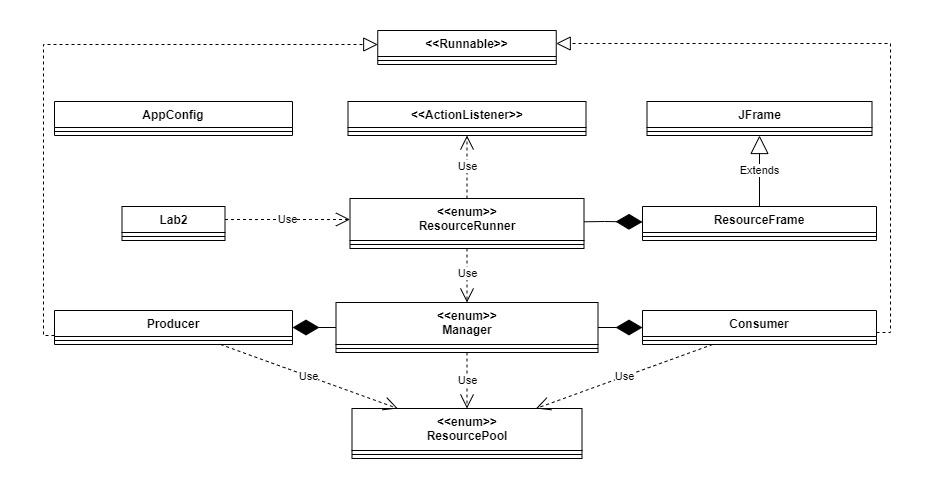
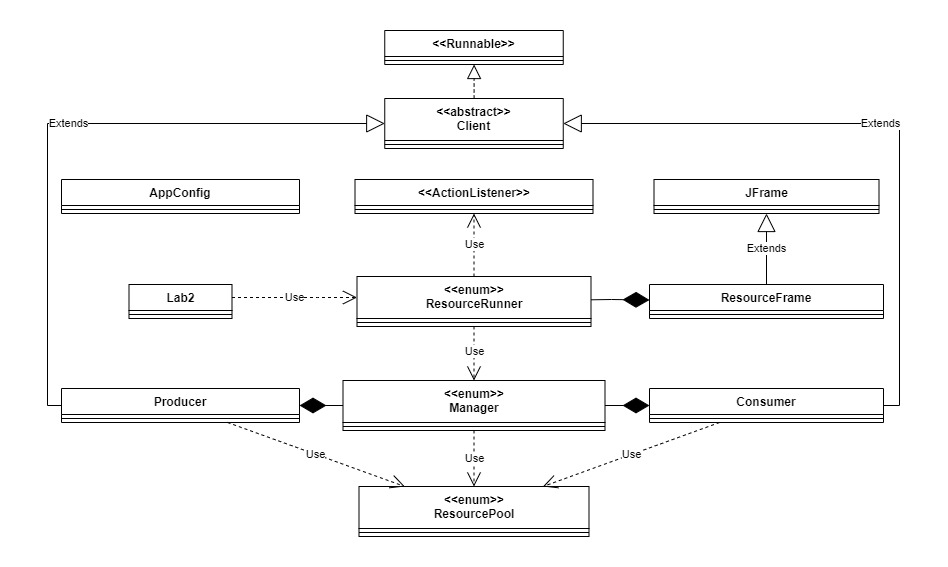
doc lab2 done

diff --git a/Laboration_2/src/main/java/com/dt181g/laboration_2/Client.java b/Laboration_2/src/main/java/com/dt181g/laboration_2/Client.java
@@ -1,0 +1,64 @@
+package com.dt181g.laboration_2;
+
+import java.util.Random;
+
+/**
+ * Represents a consumer or producer in the resource pool system.
+ * This abstract class implements the {@link Runnable} interface and is responsible
+ * for the concrete clients consuming or producing of resources from the shared {@link ResourcePool}.
+ * <p>
+ * The class generates a random amount of resources within a specified range based on the maxAdd variable,
+ * and either adds or subtracts it from the pool based on the operation variable,
+ * both of these are provided by the concrete client.
+ * Then it periodically sleeps for a random duration between modification cycles.
+ * </p>
+ * <p>
+ * Upon interruption, the thread will sleep until it is interrupted again, ensuring
+ * that it does not consume CPU resources unnecessarily when inactive.
+ * </p>
+ *
+ * @author Joel Lansgren
+ */
+abstract class Client implements Runnable {
+    private final int maxAdd;
+    private final int operation;
+
+    Client(final int maxAdd, final int operation) {
+        this.maxAdd = maxAdd;
+        this.operation = operation;
+    }
+
+    /**
+     * The main execution method for the clients.
+     * <p>
+     * This method continuously consumes or produces resources from the {@link ResourcePool}
+     * based on the operation provided from the client, and sleeps for a random duration
+     * between each modification cycle. If interrupted (by the {@code Manager}), it will wait
+     * until it is interrupted again before resuming modification.
+     * </p>
+     */
+    @Override
+    public void run() {
+        final Random randomizer = new Random();
+        int resource;
+
+        while (true) {
+            resource = randomizer.nextInt(maxAdd) + AppConfig.CLIENT_MIN_ADD;
+            ResourcePool.INSTANCE.modifyResources(operation * resource);
+
+            try {
+                Thread.sleep(randomizer.nextLong(AppConfig.CLIENTS_MAX_SLEEP) + AppConfig.CLIENTS_MIN_SLEEP);
+            } catch (final InterruptedException e) {
+                // Enters here when interrupt() is called and the thread is
+                // switched from the active list and added to the wait list
+                try {  // Put the thread to sleep for a very long time
+                    Thread.sleep(Long.MAX_VALUE);
+                } catch (final InterruptedException e1) {
+                    // Here we end up when interrupt() is called on this thread the next time,
+                    // which is when it is switched from the waiting list to the active list.
+                    // And after this it continues with its main execution in the while loop
+                }
+            }
+        }
+    }
+}

diff --git a/Laboration_2/src/main/java/com/dt181g/laboration_2/Producer.java b/Laboration_2/src/main/java/com/dt181g/laboration_2/Producer.java
@@ -1,53 +1,22 @@
 package com.dt181g.laboration_2;
 
-import java.util.Random;
-
 /**
  * Represents a producer in the resource pool system.
- * This class implements the {@link Runnable} interface and is responsible
+ * This class extends the {@link Client} abstract class and is responsible
  * for producing resources and adding them to the shared {@link ResourcePool}.
  * <p>
  * The producer generates a random amount of resources within a specified range,
  * and periodically sleeps for a random duration between resource productions.
  * </p>
  * <p>
- * Upon interruption, the producer will wait until it is interrupted again, ensuring
+ * Upon interruption, the producer will sleep until it is interrupted again, ensuring
  * that it does not consume CPU resources unnecessarily when inactive.
  * </p>
  *
  * @author Joel Lansgren
  */
-class Producer implements Runnable {
-    /**
-     * The main execution method for the producer.
-     * <p>
-     * This method continuously generates resources and adds them to the {@link ResourcePool}.
-     * It sleeps for a random duration between each production cycle. If interrupted (by the {@code Manager}),
-     * it will wait until it is interrupted again before resuming production.
-     * </p>
-     */
-    @Override
-    public void run() {
-        final Random randomizer = new Random();
-        int resource;
-
-        while (true) {
-            resource = randomizer.nextInt(AppConfig.CONSUMER_MAX_ADD) + AppConfig.CLIENT_MIN_ADD;
-            ResourcePool.INSTANCE.modifyResources(resource);
-
-            try {
-                Thread.sleep(randomizer.nextLong(AppConfig.CLIENTS_MAX_SLEEP) + AppConfig.CLIENTS_MIN_SLEEP);
-            } catch (final InterruptedException e) {
-                // Enters here when interrupt() is called and the thread is
-                // switched from the active list and added to the wait list
-                try {  // Put the thread to sleep for a very long time
-                    Thread.sleep(Long.MAX_VALUE);
-                } catch (final InterruptedException e1) {
-                    // Here we end ut when interrupt() is called on this thread the next time
-                    // which is when it is switched from the waiting list to the active list.
-                    // And after this it continues with its main execution in the while loop
-                }
-            }
-        }
+class Producer extends Client{
+    Producer() {
+        super(AppConfig.PRODUCER_MAX_ADD, AppConfig.PRODUCER_OPERATION);
     }
 }

diff --git a/Laboration_2/src/main/java/com/dt181g/laboration_2/Consumer.java b/Laboration_2/src/main/java/com/dt181g/laboration_2/Consumer.java
@@ -1,53 +1,22 @@
 package com.dt181g.laboration_2;
 
-import java.util.Random;
-
 /**
  * Represents a consumer in the resource pool system.
- * This class implements the {@link Runnable} interface and is responsible
+ * This class extends the {@link Client} abstract class and is responsible
  * for consuming resources from the shared {@link ResourcePool}.
  * <p>
  * The consumer generates a random amount of resources within a specified range,
  * and periodically sleeps for a random duration between consumption cycles.
  * </p>
  * <p>
- * Upon interruption, the consumer will wait until it is interrupted again, ensuring
+ * Upon interruption, the consumer will sleep until it is interrupted again, ensuring
  * that it does not consume CPU resources unnecessarily when inactive.
  * </p>
  *
  * @author Joel Lansgren
  */
-class Consumer implements Runnable {
-    /**
-     * The main execution method for the consumer.
-     * <p>
-     * This method continuously consumes resources from the {@link ResourcePool} and
-     * sleeps for a random duration between each consumption cycle. If interrupted (by the {@code Manager}),
-     * it will wait until it is interrupted again before resuming consumption.
-     * </p>
-     */
-    @Override
-    public void run() {
-        final Random randomizer = new Random();
-        int resource;
-
-        while (true) {
-            resource = randomizer.nextInt(AppConfig.CONSUMER_MAX_ADD) + AppConfig.CLIENT_MIN_ADD;
-            ResourcePool.INSTANCE.modifyResources(-resource);
-
-            try {
-                Thread.sleep(randomizer.nextLong(AppConfig.CLIENTS_MAX_SLEEP) + AppConfig.CLIENTS_MIN_SLEEP);
-            } catch (final InterruptedException e) {
-                // Enters here when interrupt() is called and the thread is
-                // switched from the active list and added to the wait list
-                try {  // Put the thread to sleep for a very long time
-                    Thread.sleep(Long.MAX_VALUE);
-                } catch (final InterruptedException e1) {
-                    // Here we end ut when interrupt() is called on this thread the next time
-                    // which is when it is switched from the waiting list to the active list.
-                    // And after this it continues with its main execution in the while loop
-                }
-            }
-        }
+class Consumer extends Client{
+    Consumer() {
+        super(AppConfig.CONSUMER_MAX_ADD, AppConfig.CONSUMER_OPERATION);
     }
 }

diff --git a/Laboration_2/src/main/java/com/dt181g/laboration_2/AppConfig.java b/Laboration_2/src/main/java/com/dt181g/laboration_2/AppConfig.java
@@ -52,8 +52,14 @@ public final class AppConfig {
     /** The max amount of resources the producers can add. */
     public static final int PRODUCER_MAX_ADD = 10;
 
+    /** The operation the producer (addition). */
+    public static final int PRODUCER_OPERATION = 1;
+
     /** The max amount of resources the consumers can add. */
     public static final int CONSUMER_MAX_ADD = 20;
+
+    /** The operation the consumer (subtraction). */
+    public static final int CONSUMER_OPERATION = -1;
 
     /** Minimum time a client can sleep in between adding resources. */
     public static final long CLIENTS_MIN_SLEEP = 1000L;

diff --git a/Laboration_2/README.md b/Laboration_2/README.md
@@ -40,7 +40,7 @@ The goal of this lab is to design and implement a graphical user interface (GUI)
 This section describes the step-by-step approach used to develop the program. The program relies on four main classes working in tandem to ensure proper functionality:
 
 - **The resource pool**. This is the central point of the program, the class that is interacted with by all of the other main classes. It holds the resources and provides data for the GUI, where the size of the pool is dynamically visualized as resources are added or consumed.
-- **Producer and consumer classes**. These are the actors that directly interacts with the resource pool, consuming or producing resources.
+- **Producer and consumer classes**. These are the clients that directly interacts with the resource pool, consuming or producing resources. Both are concrete implementations of the abstract class ``Client``, who in turn implements the ``Runnable`` interface.
 - **The manager class**. This is the class that controls the flow of the program, balances the amount of actors and is responsible for updating the GUI as the resource pool changes. For this to be possible it needs to observe the pool ensure accurate updates to the GUI.
 
 In addition to this, three other classes have been implemented to support the functionality. These are:
@@ -129,14 +129,6 @@ Dynamic thread management switches actors between active and sleeping states bas
 So to sum up. The goals were successfully met by implementing efficient producer/consumer management using a Manager singleton and dynamic thread handling. The system ensures thread safety with atomic operations and visualizes the resource pool using a responsive GUI. The ``ResourcePool`` dynamically maintains a balanced system by adjusting producer and consumer activity based on resource levels, keeping the pool within the bounds.
 
 ### Alternative Approaches
-polling vs observer pattern and pulling
+One could imagine using a polling mechanism for informing the ``Manager`` when the resource pool have been altered. By doing that the whole swing Timer could have been sidestepped and updates would only take place when actual changes happen, when they happen. Which would end up in a more accurate GUI. In addition to that some sort of future proofing would have been established since entities could register as observers at the observable pool and a notify method could have been called whenever changes occur. This method could then notify all registered observers. However, the lab instructions stated we've use the Timer, and since it was a nice introduction to the object since it's such a big part of the swing package it makes at least some sense to go about it this way. Additionally, there might be some value in capping the amount of updates to the GUI to some extent.
 
-Timer vs invokeAndWait() - check notes
-
-Blocking queue in resource pool
-
-alternative method for modifying clients list, a more general method that is open for additional threads that might be added in the future, but in this consumer producer setup its not really applicable
-
-using an abstract class for producers and consumners
-
-## Personal Reflections
+It might be more straightforward to manage the clients with an ExecutorService. However, for the sake of learning, implementing a method to dynamically handle the clients is a valuable exercise, as it provides a deeper low-level understanding of thread management. While practicing with an ExecutorService is also useful, especially for production scenarios where high-level abstractions are preferred, there will likely be more opportunities to explore that in the future.
